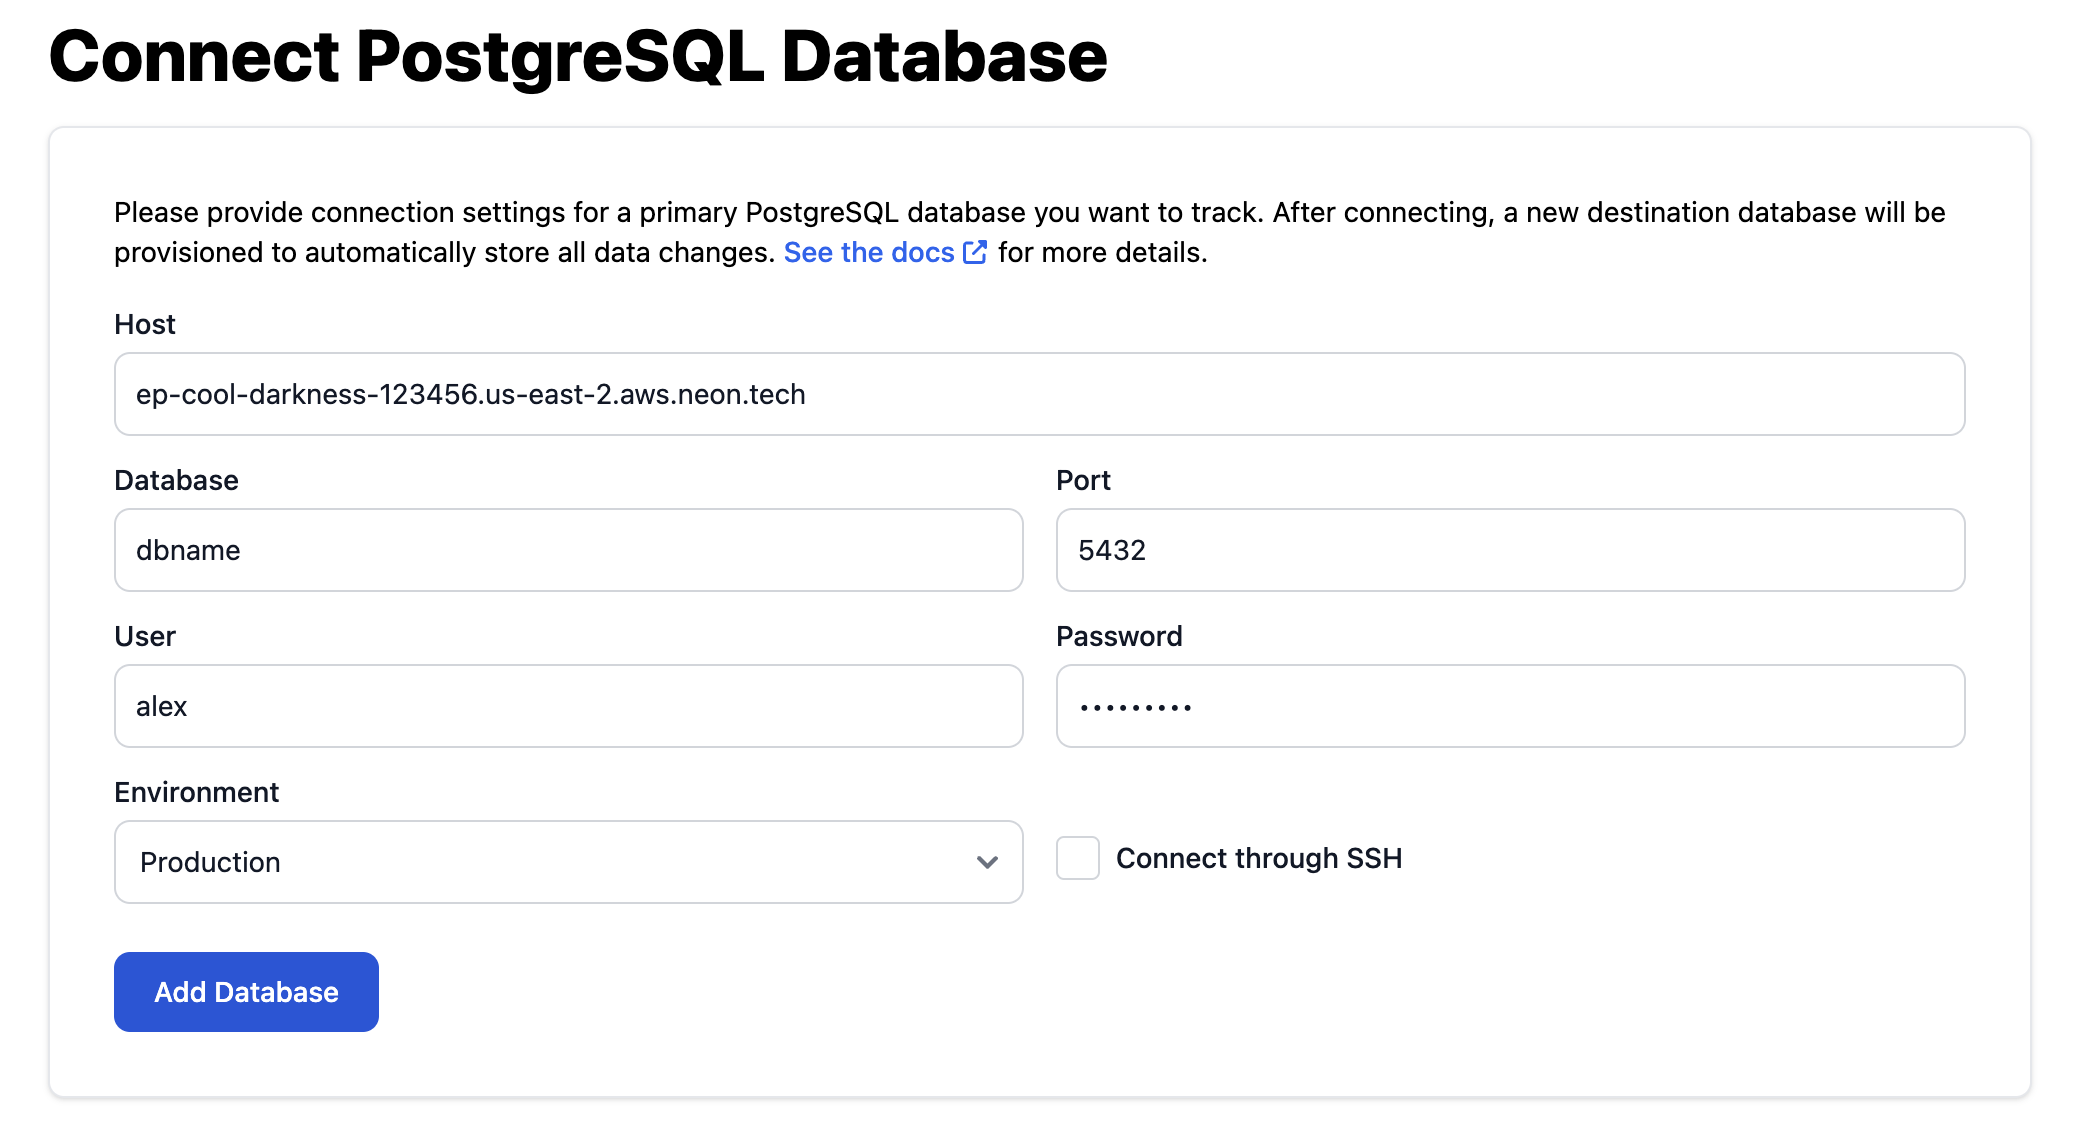
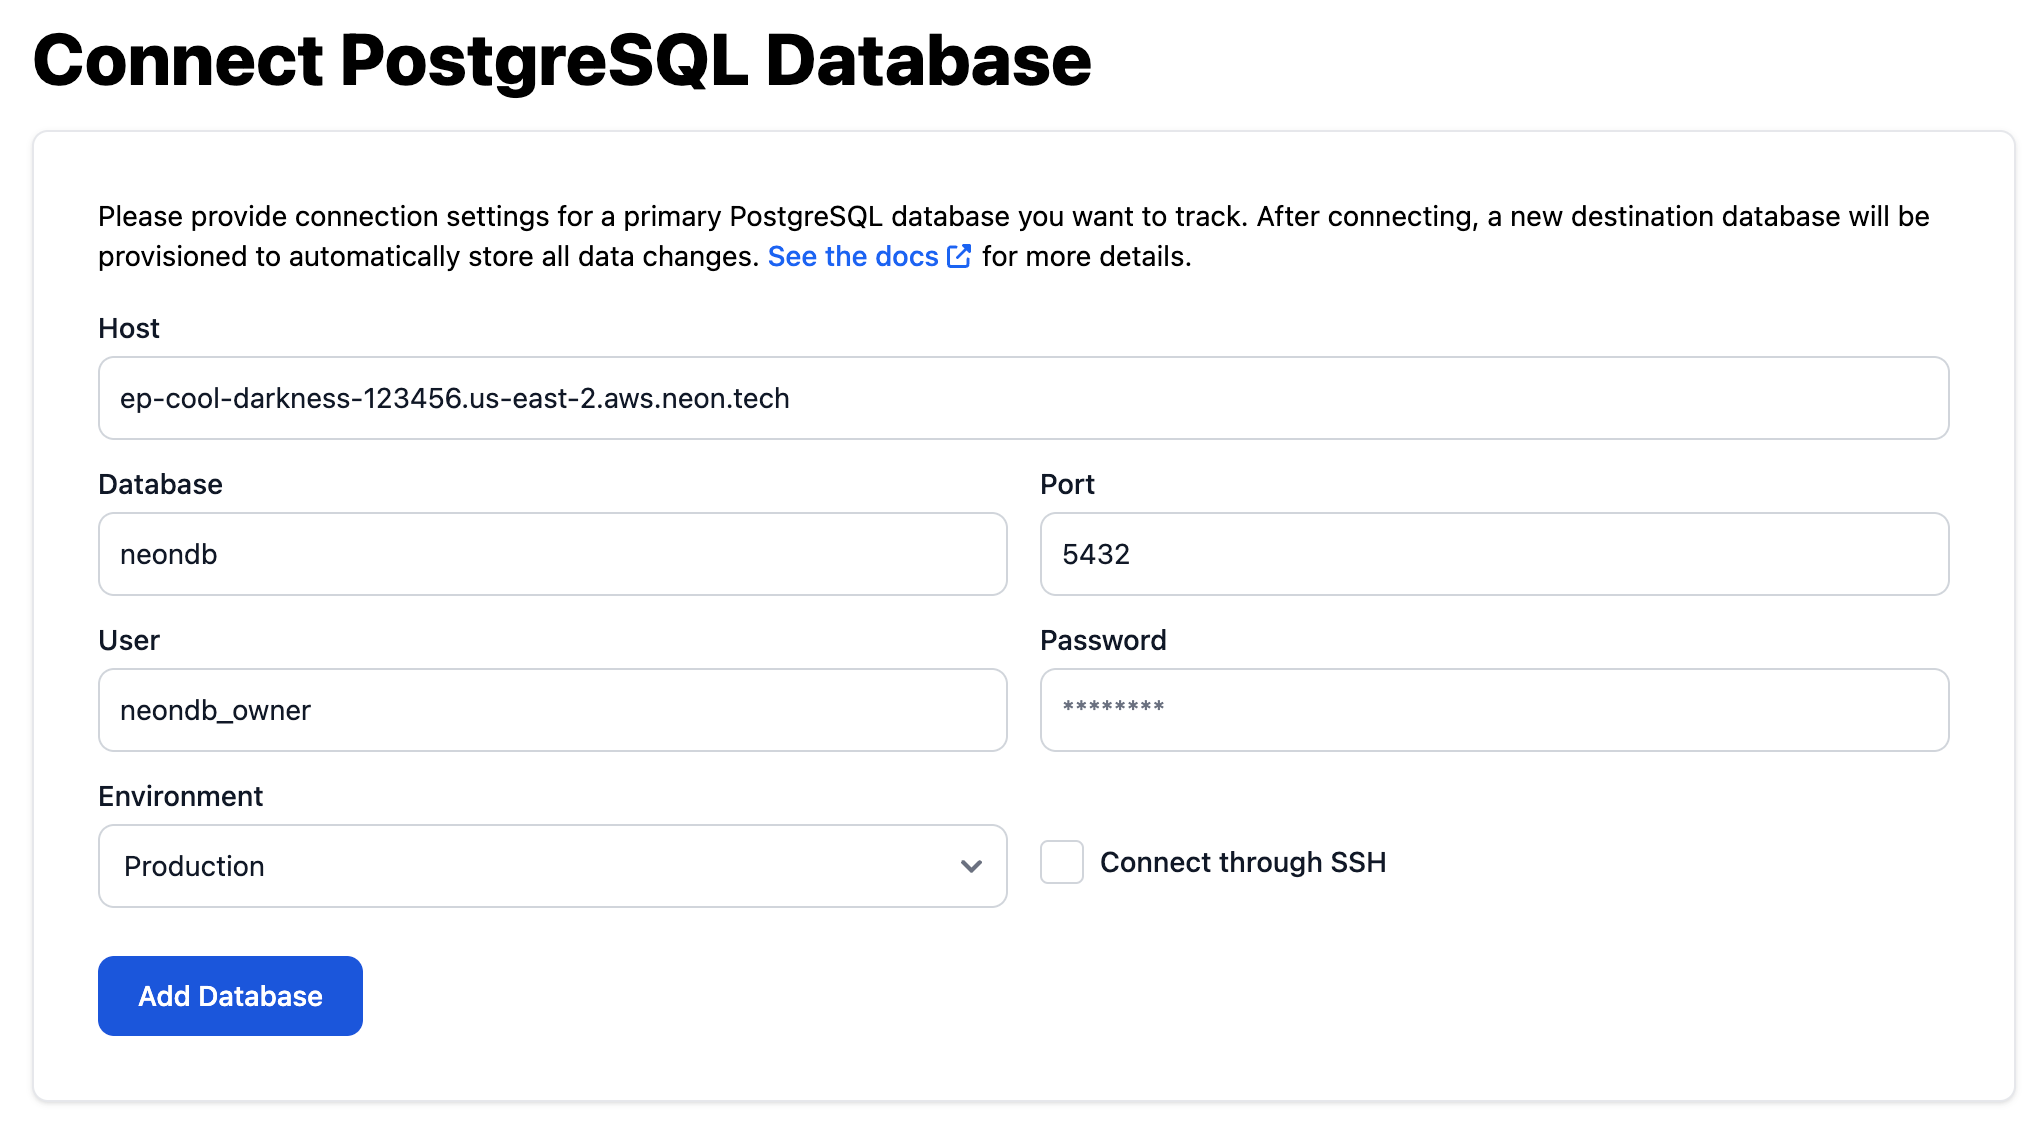
docs: revisions

diff --git a/content/docs/guides/bemi.md b/content/docs/guides/bemi.md
@@ -7,9 +7,9 @@ isDraft: false
 
 <LRNotice/>
 
-[Bemi](https://bemi.io/) is an open-source solution that plugs into PostgreSQL and ORMs to track database changes automatically. It unlocks robust context-aware audit trails and time travel querying inside your application.
+[Bemi](https://bemi.io/) is an open-source solution that plugs into Postgres and ORMs such as Prisma, TypeORM, SQLAlchemy, and Ruby on Rails to track database changes automatically. It unlocks robust context-aware audit trails and time travel querying inside your application.
 
-Designed with simplicity and non-invasiveness in mind, Bemi doesn't require any alterations to your existing database structure. It operates in the background, empowering you with data change tracking features.
+Designed with simplicity and non-invasiveness in mind, Bemi doesn't require alterations to your existing database structure. It operates in the background, empowering you with data change tracking features.
 
 In this guide, we'll show you how to connect your Neon database to Bemi to create an automatic audit trail.
 
@@ -19,6 +19,8 @@ In this guide, we'll show you how to connect your Neon database to Bemi to creat
 - A [Neon account](https://console.neon.tech/)
 
 ## Enable logical replication in Neon
+
+Bemi tracks changes made in a Postgres database through Change Data Capture (CDC), which is a process of identifying and capturing changes made to your database tables in real-time. In Postgres, CDC is supported by the Postgres logical replication feature. In this step, we'll enable logical replication for your Neon Postgres project.
 
 <Admonition type="important">
 Enabling logical replication modifies the Postgres `wal_level` configuration parameter, changing it from replica to logical for all databases in your Neon project. Once the `wal_level` setting is changed to logical, it cannot be reverted. Enabling logical replication also restarts all computes in your Neon project, meaning active connections will be dropped and have to reconnect.
@@ -42,33 +44,44 @@ logical
 
 ## Connect your Neon database to Bemi
 
-The following instructions assume that you are using a Postgres role created via the Neon Console, API, or CLI. These roles are automatically granted `neon_superuser` group automatically granted the required REPLICATION privilege.
+The following instructions assume you are connecting with a Postgres role created via the Neon Console, API, or CLI. These roles are automatically granted membership in a `neon_superuser` group, which has the Postgres `REPLICATION` privilege. The role you use to connect to Bemi requires this privilege. If you prefer to create a dedicated read-only role for use with Bemi, see [Use a read-only Postgres role for Bemi](#use-a-read-only-postgres-role-for-bemi).
 
-1. Create a [new database connection](https://dashboard.bemi.io/databases/source/new) by entering the connection details for your Neon database. You can get these details from your Neon connection string, which you'll find in the **Connection Details** widget on the **Dashboard** of your Neon project. For example, given a connection string like this:
+To connect your database to Bemi:
 
-    ```sql
-    postgres://alex:AbC123dEf@ep-cool-darkness-123456.us-east-2.aws.neon.tech/dbname?sslmode=require
+1. In Neon, retrieve your database connection string from the **Connection Details** widget on the **Project Dashboard**, which will look similar to this:
+
+      ```sql shouldWrap
+    postgres://neondb_owner:AbC123dEf@ep-cool-darkness-123456.us-east-2.aws.neon.tech/neondb?sslmode=require
     ```
 
-    Enter the details in the **Connect PostgreSQL Database** dialog as shown below. Your values will differ.
+2. In Bemi, select **Databases** > **Add Database** to open the **Connect PostgreSQL Database** dialog.
+3. Enter the Neon database connection details from your connection string. For example, given the connection string shown above, enter the details in the **Connect PostgreSQL Database** dialog as shown below. Your values will differ except for the port number. Neon uses the default Postgres port, `5432`.
 
     - **Host**: ep-cool-darkness-123456.us-east-2.aws.neon.tech
     - **Port**: 5432
-    - **Database Name**: dbname
-    - **Username**: alex
+    - **Database Name**: neondb
+    - **Username**: neondb_owner
     - **Password**: AbC123dEf
+
+    You can also use the **Environment** field to specify whether the configuration is for a **Production**, **Staging**, or **Test** environment.
 
     ![Bemi Connect PostgreSQL Database](/docs/guides/bemi_connect_postgres.png)
 
-2. During the connection setup, or any time after, you can configure the tables you want to track changes for:
+3. After entering your connection details, click **Add Database**.
+
+3. Configure the tables you want to track changes for and choose whether to track new tables automatically. You can change this selection later, if necessary.
 
     ![Bemi Tracked Tables](/docs/guides/bemi_tracked_tables.png)
 
-3. Please wait a few minutes while Bemi provisions the infrastructure. Once this succeeds, you’ve successfully configured a Bemi Postgres source for your Neon database.
+    Click **Save** to continue.
+
+4. Wait a few minutes while Bemi provisions the infrastructure. When this operation completes, you’ve successfully configured a Bemi Postgres source for your Neon database. You'll be able to track data changes through the Bemi Browser UI page, where you can filter by **Operation** (`Create`, `Update`, `Delete`), **Table**, or **Primary Key**. You can also view data changes by environment if you have configured more than one.
+
+    ![Bemi browser UI](/docs/guides/bemi_browser_ui.png)
 
 ## Use a read-only Postgres role for Bemi
 
-Alternatively, you can manually create read-only PostgreSQL database credentials to connect to your Neon database. To do so requires running the following commands, which are safe to execute without any downtime or performance issues:
+If preferred, you can create a dedicated read-only Postgres role for connecting your Neon database to Bemi. To do so, run the commands below. The commands assume your database resides in the `public` schema in Postgres. If your database resides in a different schema, adjust the commands as necessary to specify the correct schema name.
 
 - `CREATE ROLE`: Creates a new read-only user for Bemi to read database changes.
 - `CREATE PUBLICATION`: creates a "channel" that we'll subscribe to and track changes in real-time.
@@ -97,14 +110,14 @@ CALL _bemi_set_replica_identity();
 ```
 
 <Admonition type="note">
-After creating a read-only role, you can find the connection details for this role in the **Connection Details** widget in the Neon console.
+After creating a read-only role, you can find the connection details for this role in the **Connection Details** widget in the Neon console. Use this role when connecting your Neon database to Bemi, as described [above](#connect-your-neon-database-to-bemi).
 </Admonition>
 
 ## Allow inbound traffic
 
-If you’re using Neon's IP Allow feature to limit IP addresses that can connect to Neon, you will need to allow inbound traffic from Bemi. [Contact Bemi](mailto:hi@bemi.io) to get the static IPs that need to be allowlisted. For information about configuring allowed IPs in Neon, see [Configure IP Allow](/docs/manage/projects#configure-ip-allow).
+If you're using Neon's IP Allow feature, available with the Neon [Scale](/docs/introduction/plans#scale) plan, to limit IP addresses that can connect to Neon, you will need to allow inbound traffic from Bemi. [Contact Bemi](mailto:hi@bemi.io) to get the static IPs that need to be allowlisted. For information about configuring allowed IPs in Neon, see [Configure IP Allow](/docs/manage/projects#configure-ip-allow).
 
- ## **References**
+ ## References
 
 - [The ultimate guide to PostgreSQL data change tracking](https://blog.bemi.io/the-ultimate-guide-to-postgresql-data-change-tracking/)
 - [Logical replication - PostgreSQL documentation](https://www.postgresql.org/docs/current/logical-replication.html)
